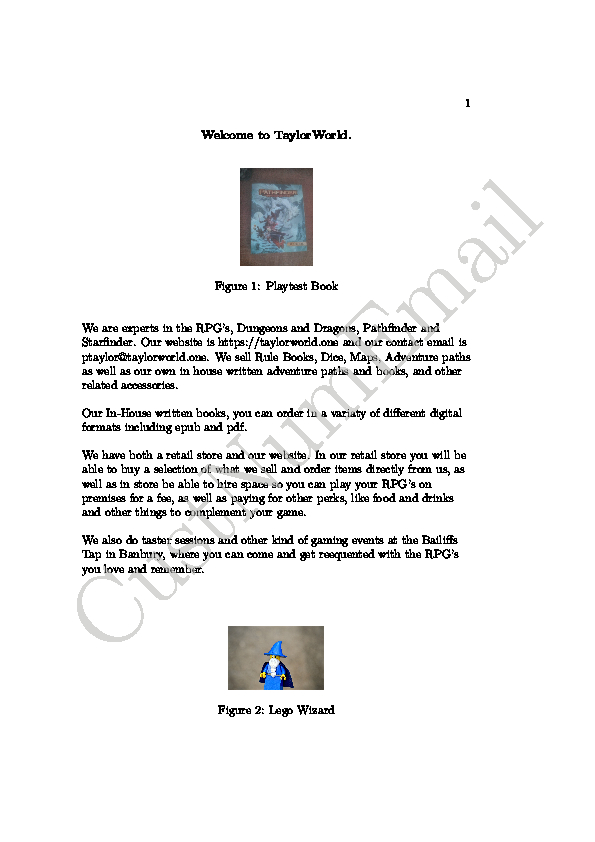
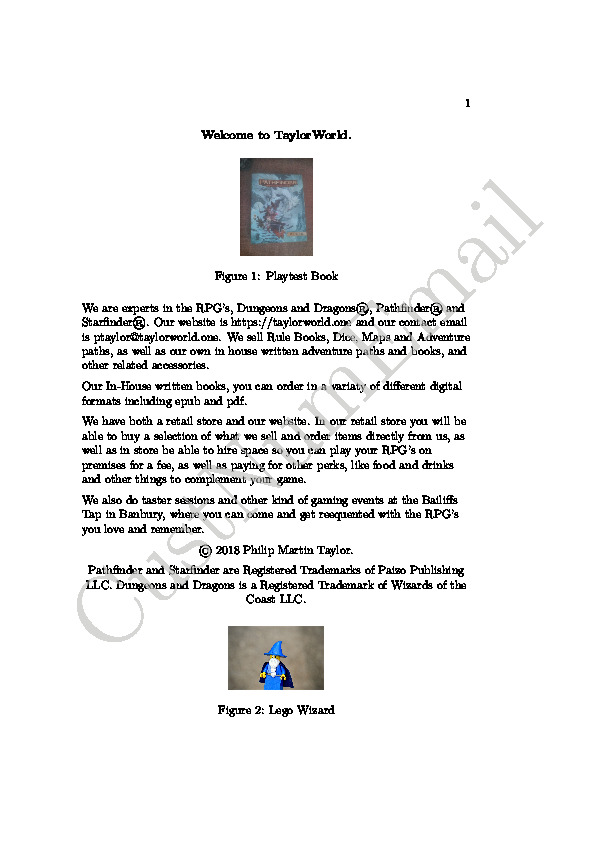
added trademark references

Changed region(s): [[0.121, 0.1853, 0.7866, 0.7411]]

diff --git a/pmt1.tex b/pmt1.tex
@@ -25,7 +25,7 @@
 \title{TaylorWorld Test Document}
 \begin{document}
 \begin{center}
-\textbf{Welcome to TaylorWorld.}
+\textbf{Welcome to TaylorWorld \texttrademark.}
 \end{center}
 \begin{figure}[h]
   \centering
